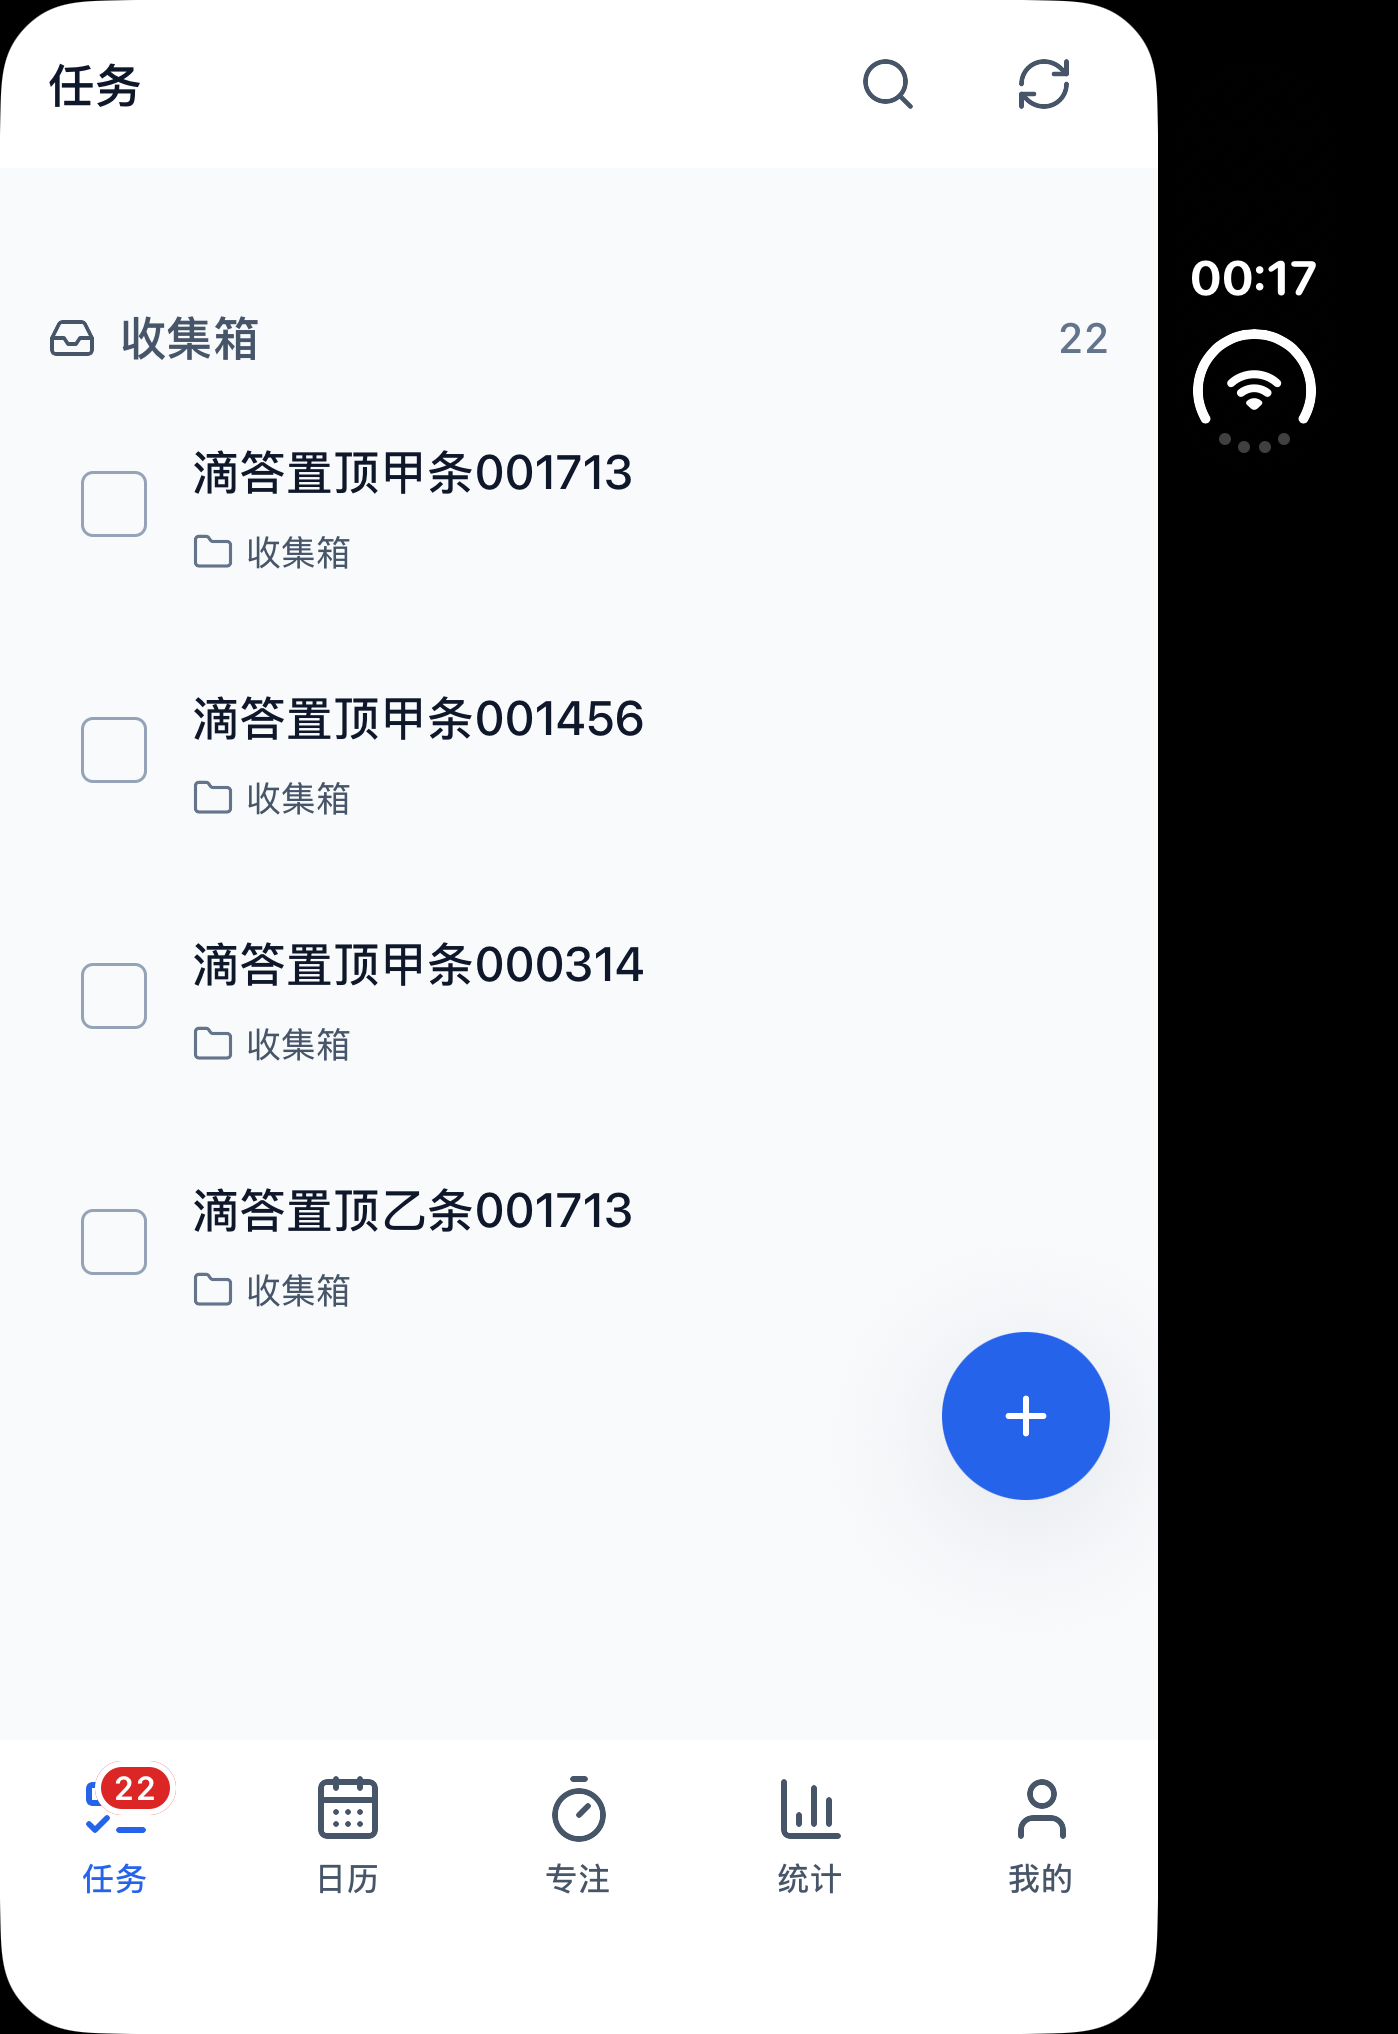
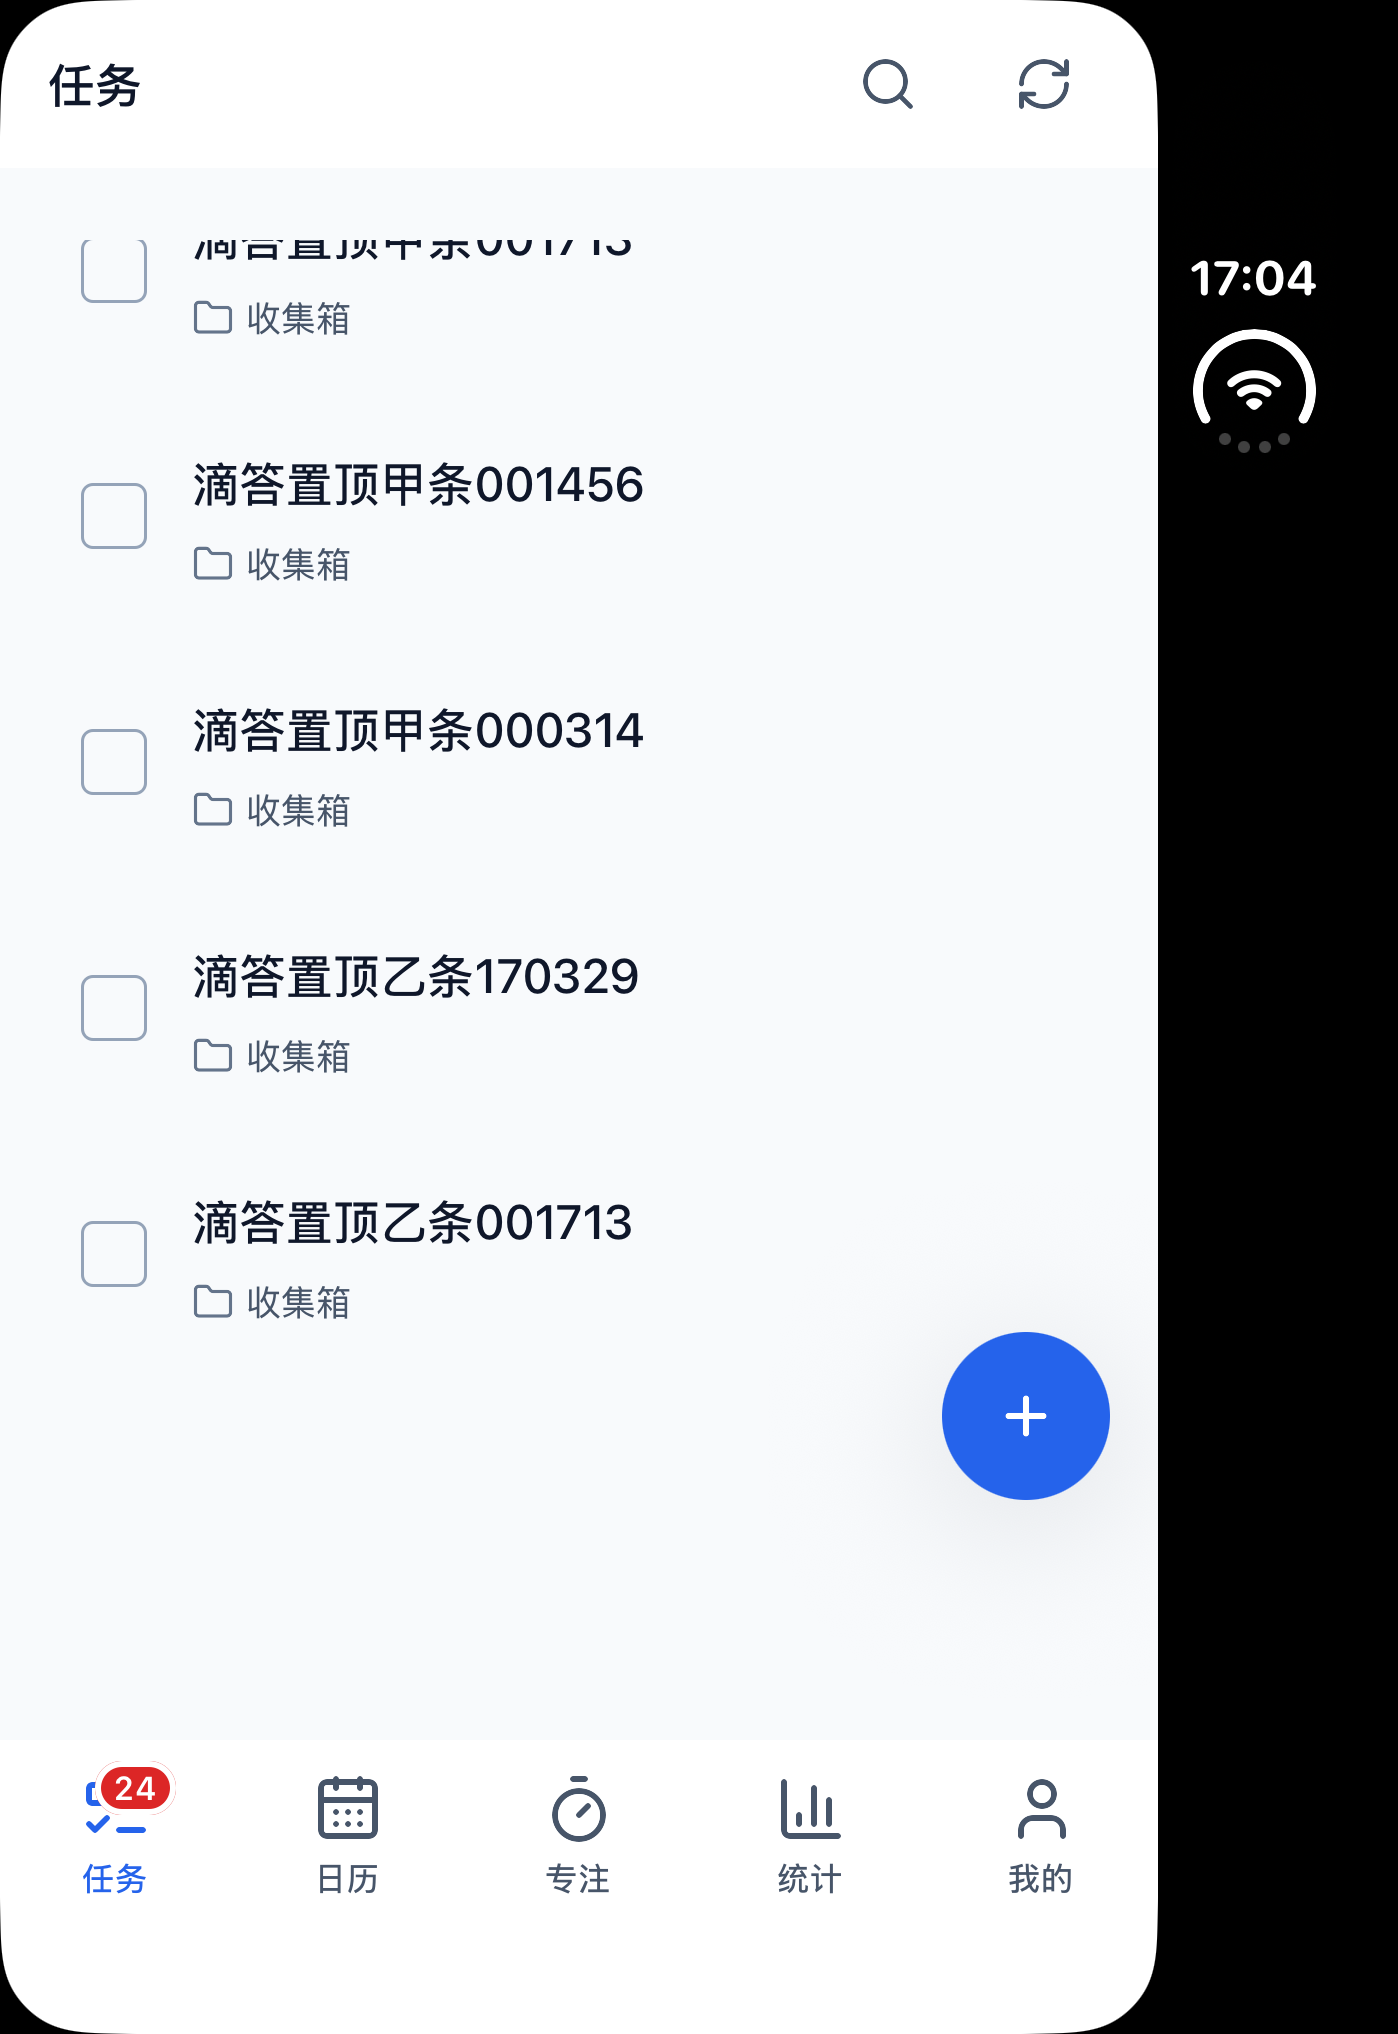
test(滴答对齐/阶段1): iOS 设备腿补跑 9/9，两张图换上并逐张与上一趟对比过
§三 那组现量里设备腿那一格补上：IOS_UDID=742A8651 那一趟 9/9、退 0，装置自己打的
"这一读数属于哪一棵树"是 git HEAD = 1062146c6（阶段 1 入库之后那棵）。

⚠ 同一行还写着装着的产物 mtime = 11-04 22:26 —— 这一趟没重打包。这一格仍算数的理由
跟排印那笔同源：进 bundle 的运行时值就是那四枚 token，它们 11-04 已在那棵工作树里，
本笔提交动的是提交动作与注释；要"从当前产物现建"那一档，得强制重打包再跑一趟。
读数：ops 31 → 34（两条建 + 一条置顶，恰好 +3，一个用户意图 = 一个 op）。

两张图按验收规矩逐张判过"产品变了"还是"只是重拍"，跟 HEAD 那两张并排比：
row-menu 同形（菜单五项 + 两行）；after-pin 的差别是滚动位置与攒下的行（角标 22 → 24），
不是产品变了。⚠ 新的一趟里被钉住那条落在 y=-29 —— 装置按 #655 的纪律"按下 → 回读 →
滚一段再来"，于是它跑到容器上沿之外，所以那一格靠的是相对 y 读数，图只是旁证，
别拿这张图当"第一行看得见"的证据。

文档：交接 §七 / §4.3 换成今天读数；计划 A4 那一格把话说窄 —— 本趟浏览器腿只重看了
① 逾期那张，其余七张沿用 11-04 那趟的逐张读数，不写成"本趟八张都过了眼"。

diff --git a/docs/plans/dida-alignment-handoff.md b/docs/plans/dida-alignment-handoff.md
@@ -142,7 +142,7 @@ IOS_UDID=<现量取的那个> HEYTA_IOS_DERIVED=/tmp/heyta-ios-release-dida \
 | Android 设备腿 | **没跑**。构建与模拟器在 linux-dev（不在本机），需要先写/接一枚远端装置；参照收集框那条线的做法，别在本机起 Gradle |
 | 四端重装 | **没跑**（要在隔离检出里跑，见 [multi-end-build](../agents/multi-end-build.md)） |
 | 整棵 `e2e/` | **刻意没跑**：它会重写别线未入库的取证图 |
-| iOS 屏幕图 | 已取到（两张入库）。⚠ 每跑一趟装置会在模拟器本地库里留 3 条 op（置顶是持久状态），目标行会逐趟下漂——脚本注释里写明并给了应对 |
+| iOS 屏幕图 | 已取到（两张入库，17:0x 那一趟换上并逐张与上一趟对比过）。⚠ 每跑一趟装置会在模拟器本地库里留 3 条 op（置顶是持久状态），目标行会逐趟下漂——本趟现量 `ops 31 → 34`、侧栏角标 `22 → 24`；脚本注释里写明并给了应对（读数前先 `--scroll-into-view`，判据读相对 y） |
 | 暗色 | 只在 web 验过（e2e ⑤⑦）；移动端/桌面壳的暗色没有设备读数 |
 
 ### 4.4 跨树一致性（一格，等别人落库）
@@ -209,7 +209,7 @@ IOS_UDID=<现量取的那个> HEYTA_IOS_DERIVED=/tmp/heyta-ios-release-dida \
 | `pnpm typecheck`（整仓） | 2026-11-05 17:01 退 0（阶段 1 入库之后重跑） |
 | web 单测（本线三枚 spec） | 2026-11-05 16:11 123 条全过；`packages/design-system` 546、`packages/ui` 894、landing `mockup-task-row` 6 + `mockup-quadrant-shape` 15、web `quadrant-row-parity` + `calendar-day-view` 23 同日全过 |
 | 浏览器腿 | 2026-11-05 16:39 11/11（本线两枚 spec，跑在新密度上） |
-| iOS 设备腿 | 2026-11-05 00:1x 两趟 9/9（第二趟长按一次命中）。⚠ 本趟**没重跑**：设备面被别线占着（现量 `ps aux | grep verify-mobile-capture-android` 两枚在跑；`sysctl vm.swapusage` used 9.8G / 11.2G），空了再跑 `IOS_UDID=<现量取> HEYTA_IOS_DERIVED=/tmp/heyta-ios-release-dida bash scripts/verify-mobile-pin-order.sh` |
+| iOS 设备腿 | 2026-11-05 17:0x 又一趟 **9/9、退 0**，读数头上打的是 `git HEAD = 1062146c6`（阶段 1 入库之后那棵）。⚠ 装置自己那行"这一读数属于哪一棵树"同时写着**装着的产物 mtime = 11-04 22:26** —— 它没重打包。这一格为什么仍然算数：本笔提交进 bundle 的运行时值就是那四枚 token，而它们 11-04 就在那棵工作树里（B261 现量过同一批 hunk），今天入库的只是提交动作与注释；要"从当前产物现建"那一档，得强制重打包再跑一趟。两张图已换上并**逐张与上一趟对比**：`row-menu.png` 同形（菜单五项 + 两行），`after-pin.png` 的差别是滚动位置与攒下的行（角标 22→24），不是产品变了。⚠ 新的一趟里被钉住那条落在 **y=-29**（装置按 #655 的纪律"按下→回读→滚一段再来"，于是它跑到了容器上沿之外），所以那一格的判据是**相对 y 读数**，图只是旁证 —— 别拿这张图当"第一行看得见"的证据。 |
 | 桌面壳 | 同日 `--window` 一趟：`rows=1 / colorBuckets=66`，图入库并看过 |
 | 未跑 | 整棵 `e2e/`、四端重装、Android 设备腿（收集框线此刻正在跑那一枚） |
 

diff --git a/docs/plans/dida-alignment-typography-and-features.md b/docs/plans/dida-alignment-typography-and-features.md
@@ -281,7 +281,12 @@
   🔴 **同表 `row-meta` 仍写 `14 / 400 / 21` 而代码是 12px** —— 那是 11-02 字重/字号那一刀的漏改抄件，
   归设计系统线，本线不代改（B262 ②）。
 - **A4 能签的一半与不能签的一半**：能签的是"新密度下没画坏"——浏览器腿 11/11（含 ⑦ 390 窄屏 + 暗色），
-  `e2e/test-results/dida-*.png` 那批按新密度重跑的图逐张看过（任务行、侧栏、分组说明都在位、没被裁）。
+  本趟重跑后**看过 ① 逾期那一格那张**（1440 亮色：任务行、侧栏、分组说明、回收站都在位、没被裁）；
+  ⚠ 其余七张本趟**没逐张重看**，上一趟（11-04 22:4x）那批是逐张看过的，别把这句读成"本趟八张都过了眼"。
+  设备侧本趟补了一枪：`scripts/verify-mobile-pin-order.sh` **9/9 退 0**，读数头上打的是
+  `git HEAD = 1062146c6`，两张图换上并与上一趟逐张对比过（同形，差别是滚动位置与攒下的行）。
+  ⚠ 装置那行同时写着装着的产物 mtime = 11-04 22:26 —— 它没重打包；这一格仍然算数的理由与本节
+  第一条同源：进 bundle 的运行时值就是那四枚 token，它们 11-04 已在那棵工作树里。
   **没签的是**"和滴答并排比观感"那一半：那需要滴答的截图做参照，本轮没做，别把它读成已对齐。
 
 ### 阶段 2（右键菜单）
